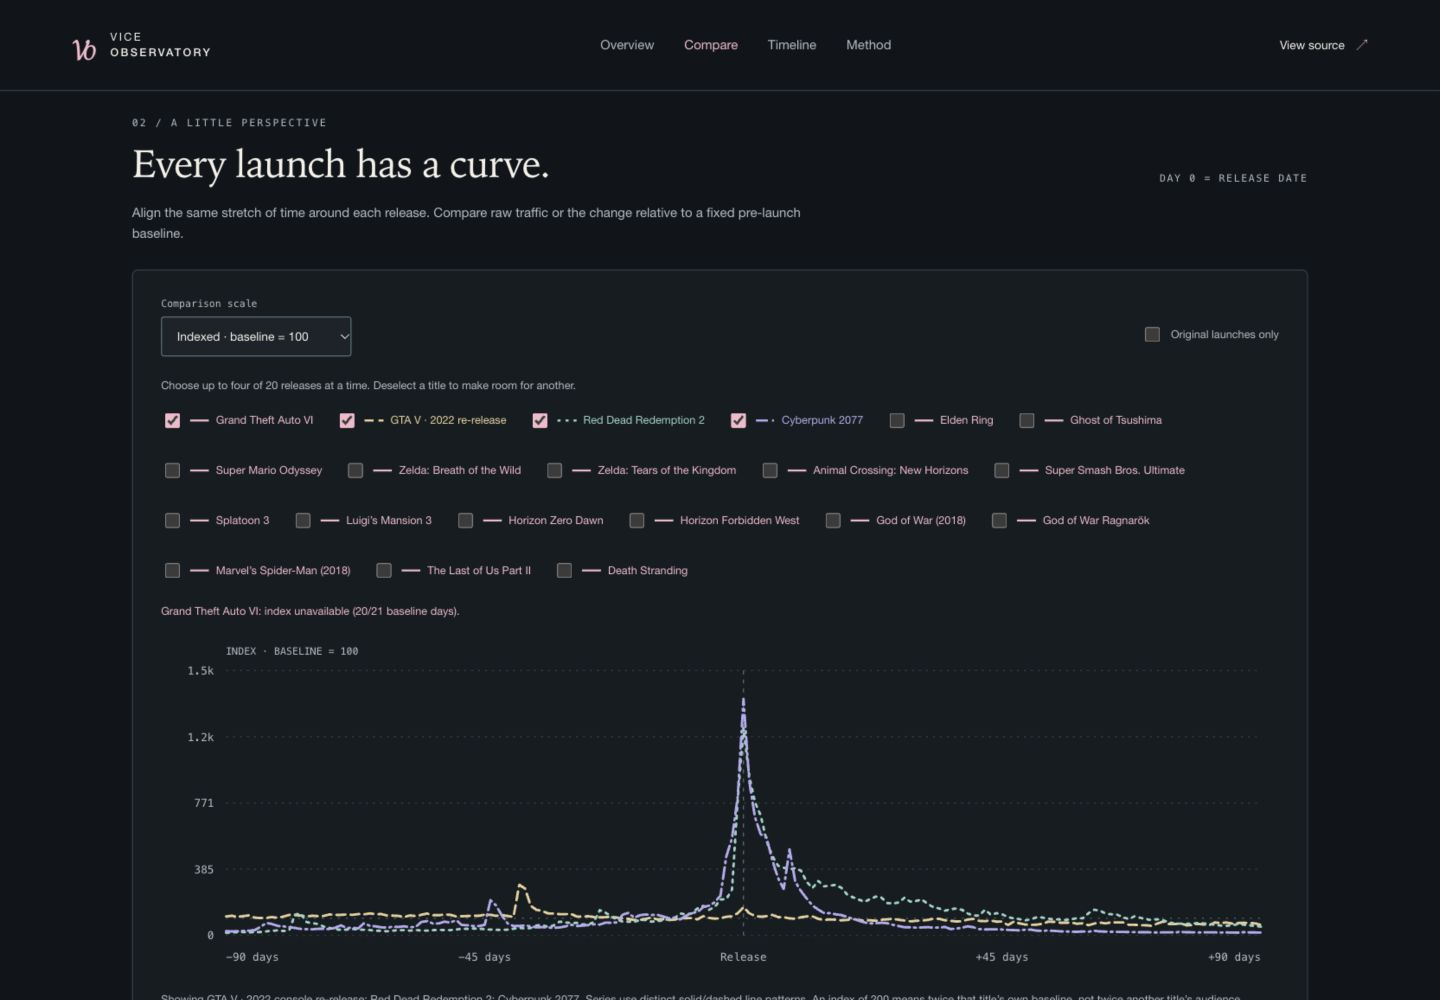
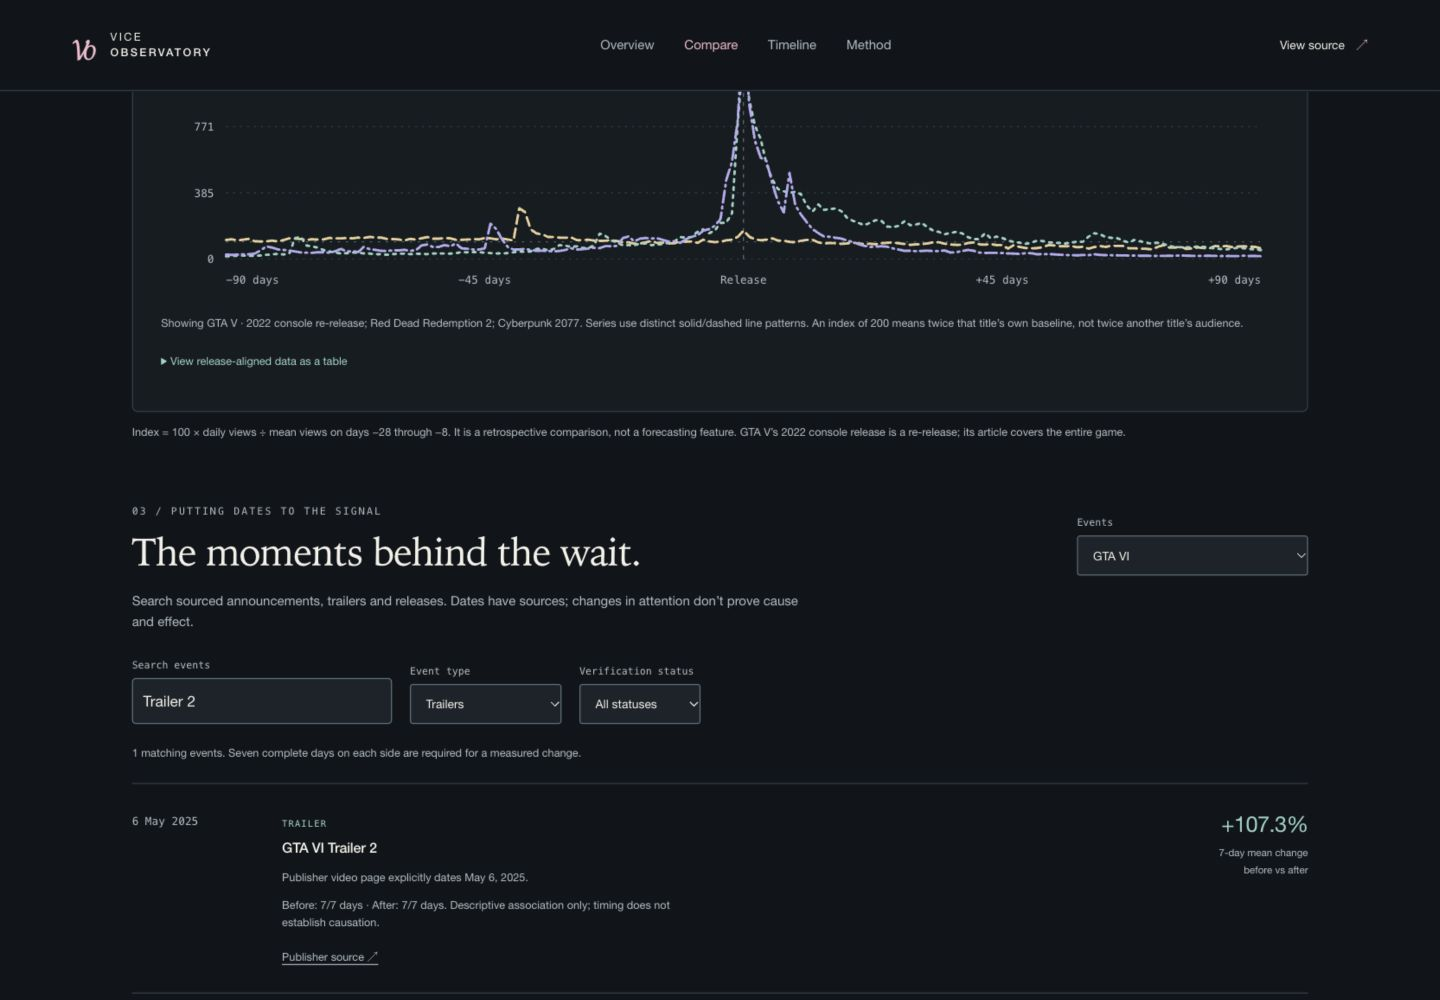
docs: record verified phase six deployment and public refresh evidence

diff --git a/docs/PHASE_6.md b/docs/PHASE_6.md
@@ -29,3 +29,5 @@ The writer path was exercised immediately, without waiting for the next schedule
 - Sites deployment: appgdep_6af4a3b0b250819183a45381b72607c2
 
 Existing phase tags and intermediate immutable snapshots are preserved. Events remain manually verified; a scheduled release never becomes an occurred event just because a date passes. Automatic refreshes refetch historical histories as well as GTA VI, so long-term archive growth remains an operational limitation.
+
+Final shared-link fix and verification: GitHub source c5a6547c0a8495de8f1920af7550c3d9a89efea2; [CI](https://github.com/AnoopIbrampur/vice-observatory/actions/runs/43067371857) and [publication](https://github.com/AnoopIbrampur/vice-observatory/actions/runs/43067372078) both succeeded. Final Sites source b6948a7145452ae952c7dad33b64a893864abfce, saved version appgprj_6af416aed3948191bfe69c871154b0bb~appgver_4f6535450af48191bd88e7f4b0279d25, deployment appgdep_6af4a48479a48191a4985ac6aac0342d succeeded. Mobile deep links restored the search/type filters, showed one matching Trailer 2 event, and positioned the timeline below the sticky header. Desktop and mobile had no page overflow.

diff --git a/README.md b/README.md
@@ -10,7 +10,7 @@ The source repository and hosted demo are public. Anonymous requests verified bo
 
 [![Verify project](https://github.com/AnoopIbrampur/vice-observatory/actions/workflows/ci.yml/badge.svg)](https://github.com/AnoopIbrampur/vice-observatory/actions/workflows/ci.yml)
 
-![Verified desktop dashboard](docs/screenshots/desktop.jpg)
+![Verified desktop dashboard](docs/screenshots/expansion-live-desktop.jpg)
 
 ## Open the dashboard locally
 
